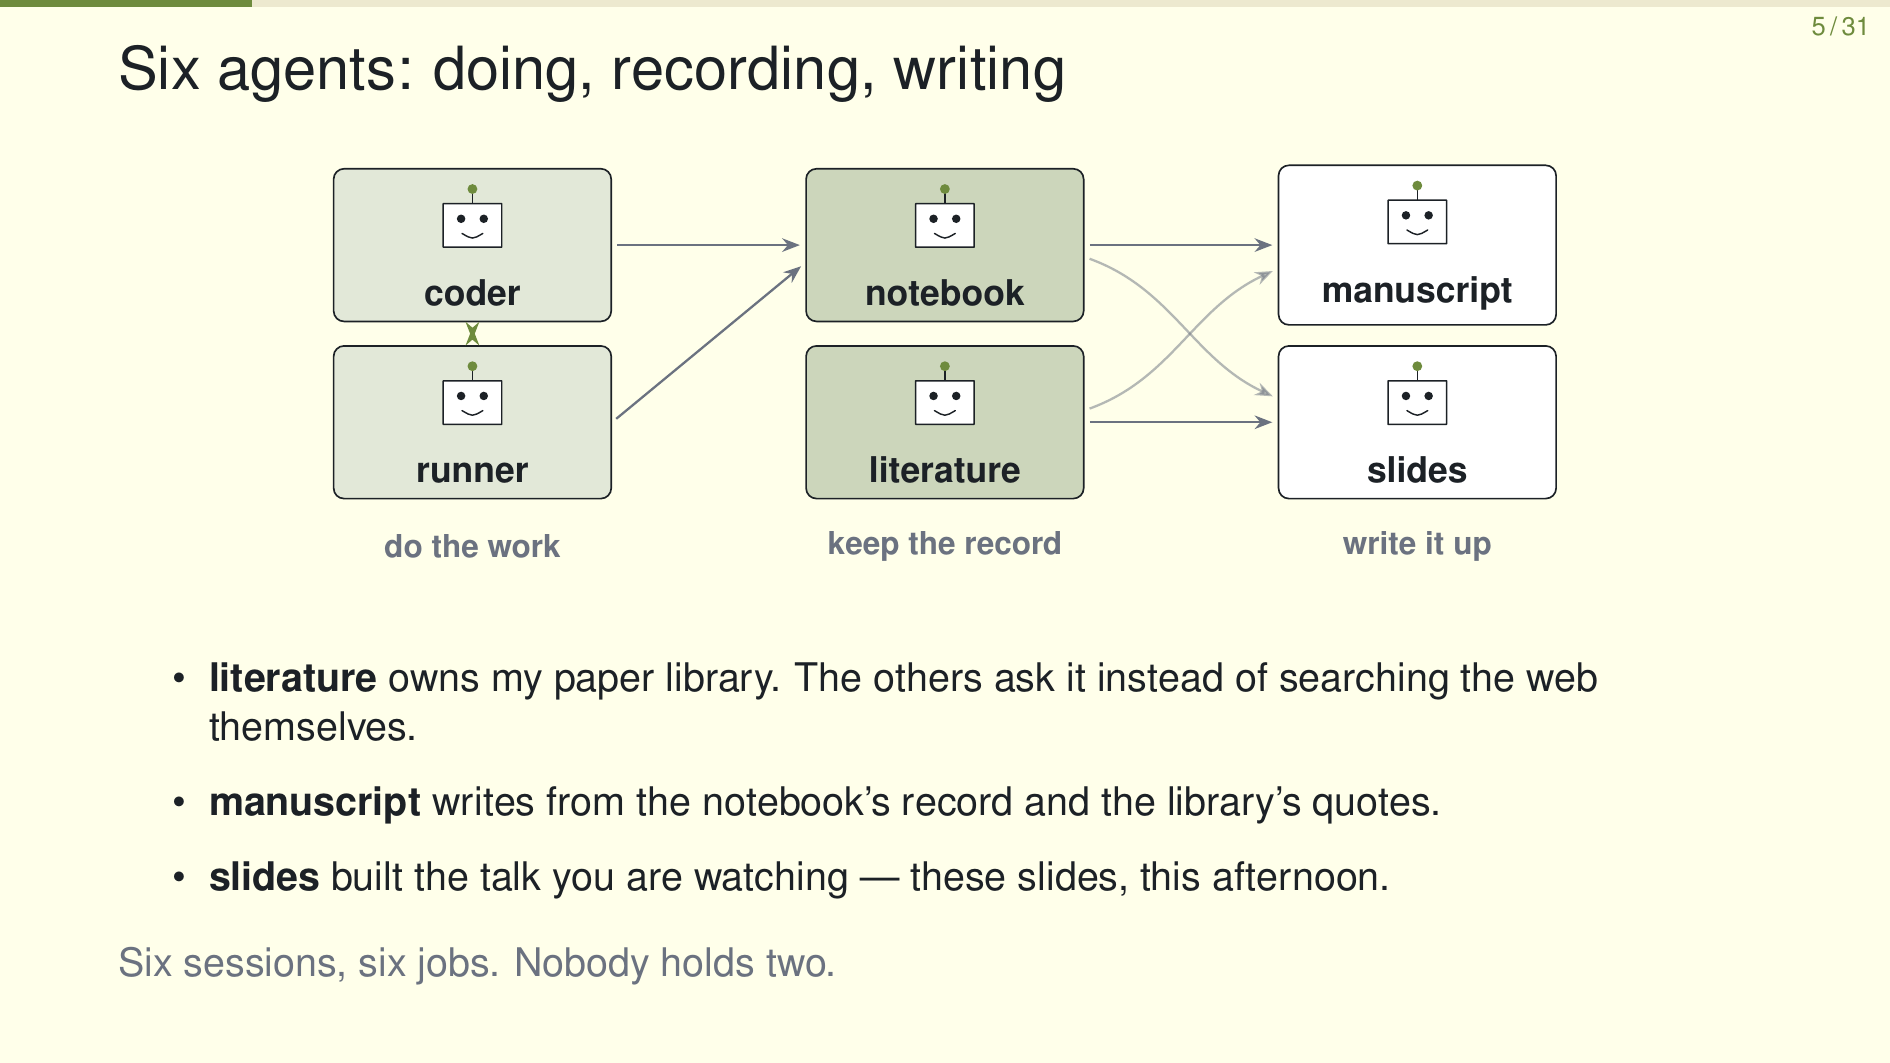
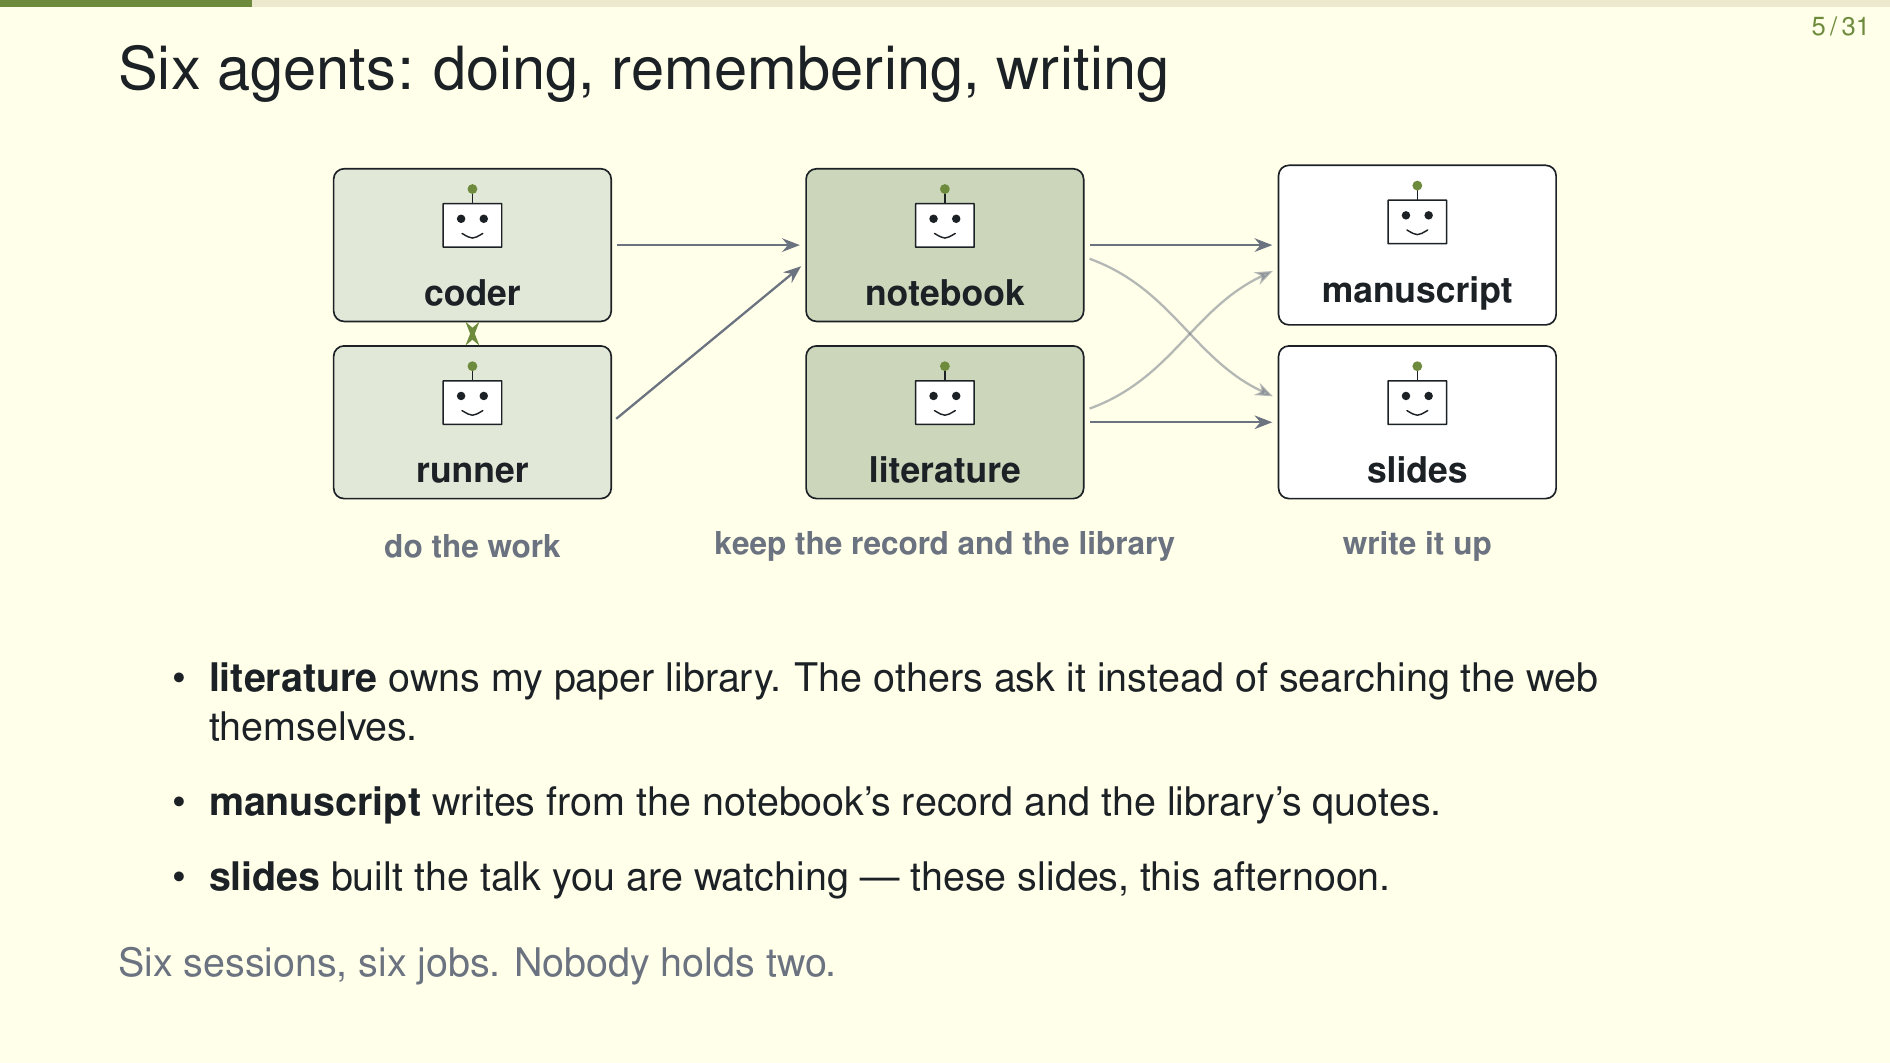
Slide 5: literature keeps the library, it does not keep the record

Changed region(s): [[0.3434, 0.031, 0.6243, 0.0931], [0.3746, 0.4967, 0.6243, 0.5278]]

diff --git a/index.html b/index.html
@@ -75,7 +75,7 @@ button:focus-visible{outline:2px solid var(--accent); outline-offset:2px}
 </div>
 
 <script>
-const TITLES = ["Claude Code as a Research Group", "How it all started: one agent for all tasks", "Two agents: one writes the code, one runs it", "Three agents: and one of them writes it down", "Six agents: doing, recording, writing", "Six agents: doing, recording, writing — live in tmux", "What changed in my pace — and the day they first talked", "Context: everything the agent can see", "CLAUDE.md: notes the agent reads every session", "What I kept re-explaining, written down once", "One file for any cluster, one for mine", "The bill for talking: a message is read again on every turn", "What the sessions learned: how to write, not whether", "From one session to a fleet: a job for each session", "Five weeks of the fleet: every session, 14 Aug – 22 Sep", "The fleet grew its own software", "Three of those tools, on a normal morning", "The host underneath the agents", "One bug, one afternoon", "The literature agent", "How a paywalled paper gets in", "The literature agent at work: “nobody has done this”", "The notebook agent", "Why it worked: the catcher owned the thing", "The traps I fell into", "A check that cannot fail is not evidence", "These checks all fail in the same direction", "Records kept by hand go out of date", "Honest costs", "When is a fleet too much?", "Here is what has me worried", "What I would tell you to try", "Backup: why setsid?", "Backup: why a local library, not the whole web?", "Backup: how the fleet reaches my phone", "Backup: conda-forge — a release can fail silently", "Backup: inside the slurm skill — traps, each with evidence", "Backup: a confident wrong number", "Backup: rules the literature agent earned", "Backup: the notebook agent at work — a bill it rebuilt", "Backup: the notebook agent at work — a claim it withdrew", "Backup: long runs — the agent is not the job"];
+const TITLES = ["Claude Code as a Research Group", "How it all started: one agent for all tasks", "Two agents: one writes the code, one runs it", "Three agents: and one of them writes it down", "Six agents: doing, remembering, writing", "Six agents: doing, remembering, writing — live in tmux", "What changed in my pace — and the day they first talked", "Context: everything the agent can see", "CLAUDE.md: notes the agent reads every session", "What I kept re-explaining, written down once", "One file for any cluster, one for mine", "The bill for talking: a message is read again on every turn", "What the sessions learned: how to write, not whether", "From one session to a fleet: a job for each session", "Five weeks of the fleet: every session, 14 Aug – 22 Sep", "The fleet grew its own software", "Three of those tools, on a normal morning", "The host underneath the agents", "One bug, one afternoon", "The literature agent", "How a paywalled paper gets in", "The literature agent at work: “nobody has done this”", "The notebook agent", "Why it worked: the catcher owned the thing", "The traps I fell into", "A check that cannot fail is not evidence", "These checks all fail in the same direction", "Records kept by hand go out of date", "Honest costs", "When is a fleet too much?", "Here is what has me worried", "What I would tell you to try", "Backup: why setsid?", "Backup: why a local library, not the whole web?", "Backup: how the fleet reaches my phone", "Backup: conda-forge — a release can fail silently", "Backup: inside the slurm skill — traps, each with evidence", "Backup: a confident wrong number", "Backup: rules the literature agent earned", "Backup: the notebook agent at work — a bill it rebuilt", "Backup: the notebook agent at work — a claim it withdrew", "Backup: long runs — the agent is not the job"];
 const N = TITLES.length;
 const pad = n => String(n).padStart(2, "0");
 const img = document.getElementById("slide"), count = document.getElementById("count"),
